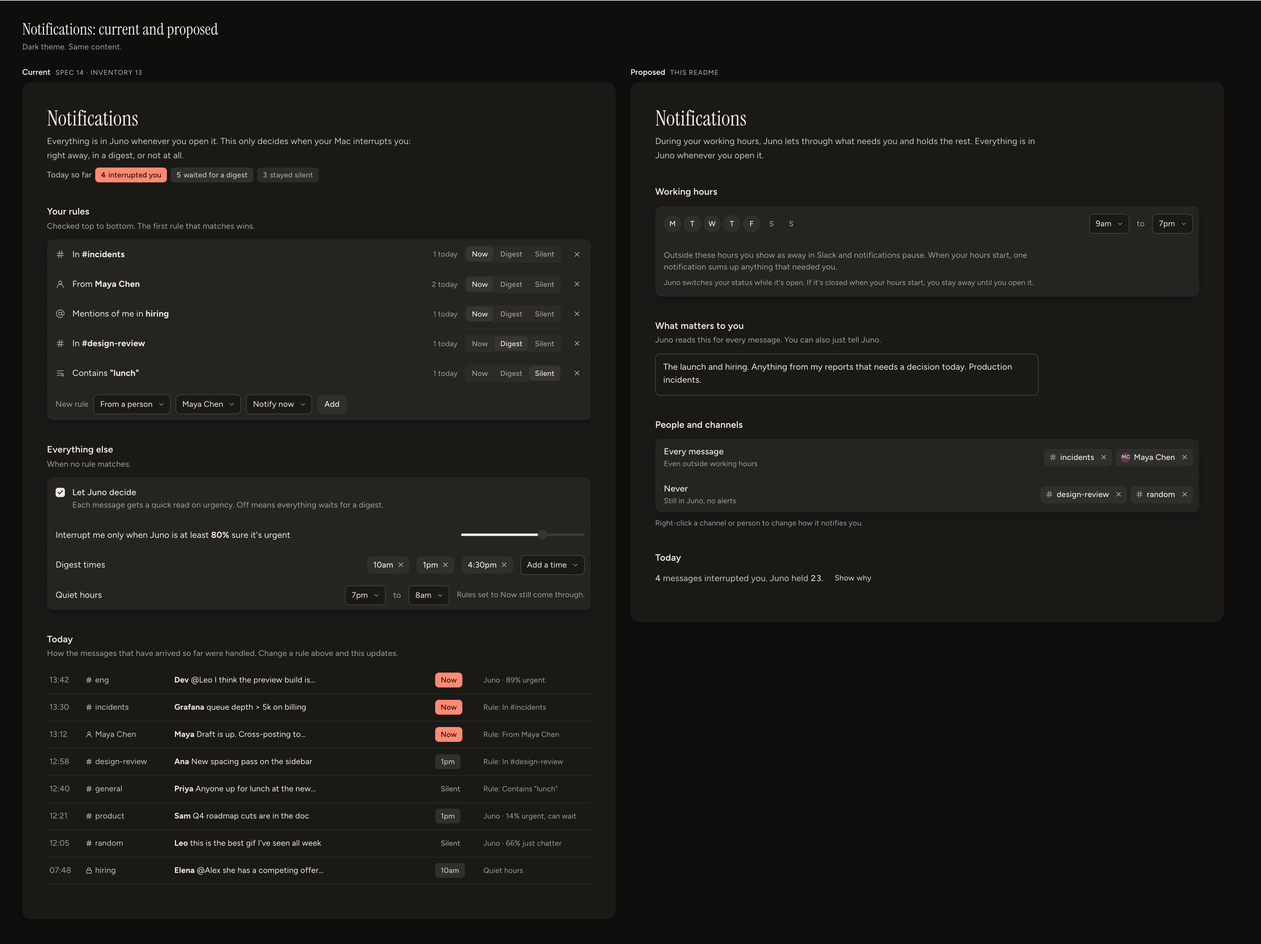
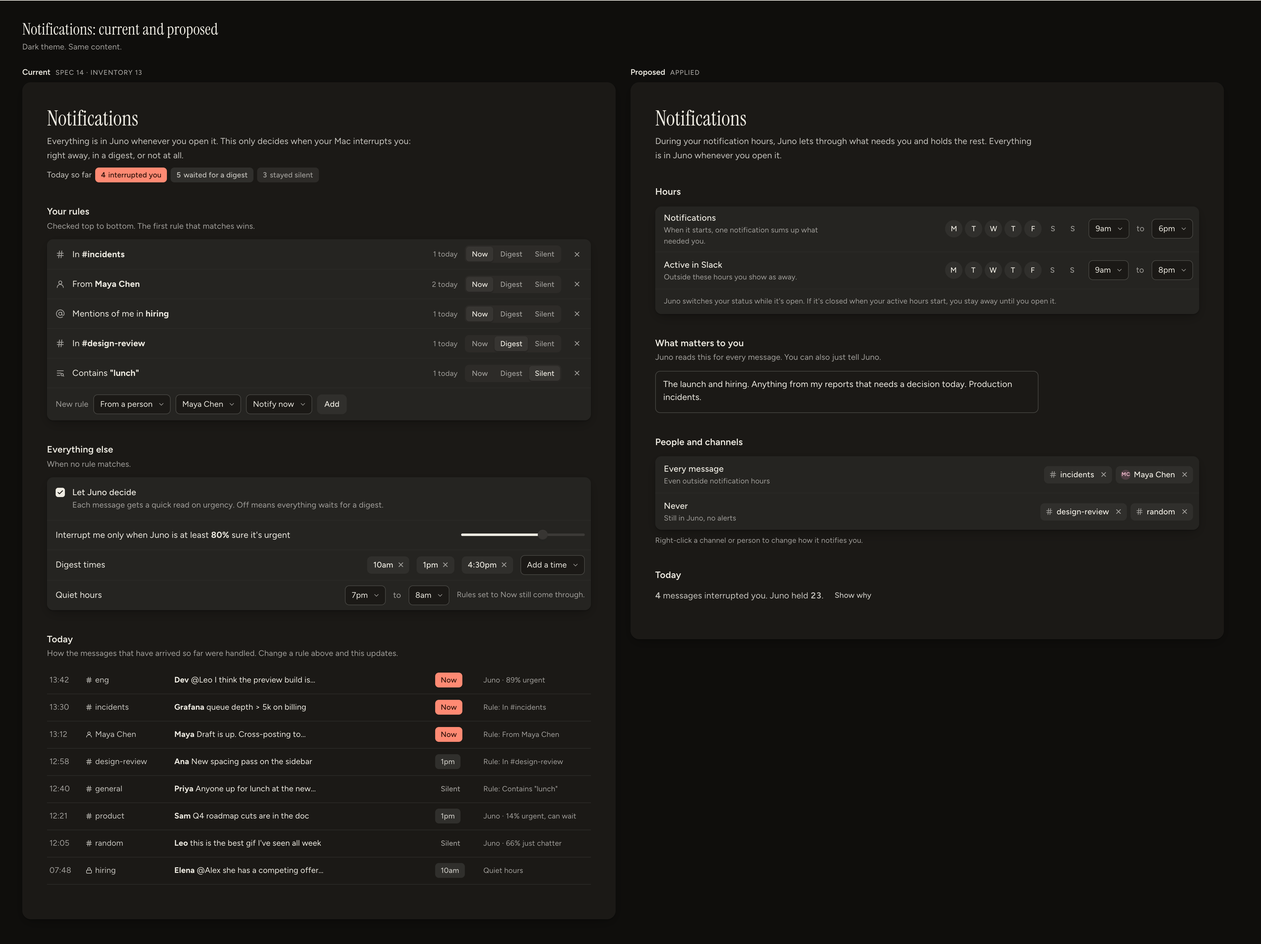
Split notification and active hours in the notifications design

diff --git a/docs/design/notifications/mock.html b/docs/design/notifications/mock.html
@@ -110,7 +110,7 @@ h1 { font: 400 26px/1.15 var(--font-serif); margin: 0 0 4px; }
 .av { width: 16px; height: 16px; border-radius: 50%; font-size: 8.5px; font-weight: 700; display: grid; place-items: center; background: color-mix(in oklch, #E89EB8 24%, var(--surface-default)); color: color-mix(in oklch, #E89EB8 62%, var(--foreground-default)); }
 .av.b { background: color-mix(in oklch, #008AB3 24%, var(--surface-default)); color: color-mix(in oklch, #008AB3 62%, var(--foreground-default)); }
 .tags { display: flex; flex-wrap: wrap; gap: 6px; flex: 1; justify-content: flex-end; }
-.lbl { width: 200px; flex: none; }
+.lbl { width: 260px; flex: none; }
 .lbl .t { font-size: 14px; font-weight: 500; }
 .lbl .s { font-size: 12px; color: var(--foreground-muted); }
 .hint { font-size: 12px; color: var(--foreground-muted); margin-top: 8px; }
@@ -252,18 +252,25 @@ h1 { font: 400 26px/1.15 var(--font-serif); margin: 0 0 4px; }
   <div class="pane"><div class="page">
     <div>
       <h2>Notifications</h2>
-      <p class="sub">During your working hours, Juno lets through what needs you and holds the rest. Everything is in Juno whenever you open it.</p>
+      <p class="sub">During your notification hours, Juno lets through what needs you and holds the rest. Everything is in Juno whenever you open it.</p>
     </div>
 
     <div>
-      <div class="sec-h">Working hours</div>
+      <div class="sec-h">Hours</div>
       <div class="group">
-        <div class="r" style="min-height:56px">
-          <span class="days"><span class="on">M</span><span class="on">T</span><span class="on">W</span><span class="on">T</span><span class="on">F</span><span>S</span><span>S</span></span>
+        <div class="r" style="min-height:60px">
+          <div class="lbl"><div class="t">Notifications</div><div class="s">When it starts, one notification sums up what needed you.</div></div>
           <span class="grow"></span>
-          <span class="select">9am<svg><use href="#i-down"/></svg></span><span class="muted" style="font-size:13px">to</span><span class="select">7pm<svg><use href="#i-down"/></svg></span>
+          <span class="days"><span class="on">M</span><span class="on">T</span><span class="on">W</span><span class="on">T</span><span class="on">F</span><span>S</span><span>S</span></span>
+          <span class="select">9am<svg><use href="#i-down"/></svg></span><span class="muted" style="font-size:13px">to</span><span class="select">6pm<svg><use href="#i-down"/></svg></span>
         </div>
-        <div class="note" style="border-top:1px solid var(--border-subtle)">Outside these hours you show as away in Slack and notifications pause. When your hours start, one notification sums up anything that needed you.<div style="font-size:12px;margin-top:6px">Juno switches your status while it's open. If it's closed when your hours start, you stay away until you open it.</div></div>
+        <div class="r" style="min-height:60px">
+          <div class="lbl"><div class="t">Active in Slack</div><div class="s">Outside these hours you show as away.</div></div>
+          <span class="grow"></span>
+          <span class="days"><span class="on">M</span><span class="on">T</span><span class="on">W</span><span class="on">T</span><span class="on">F</span><span>S</span><span>S</span></span>
+          <span class="select">9am<svg><use href="#i-down"/></svg></span><span class="muted" style="font-size:13px">to</span><span class="select">8pm<svg><use href="#i-down"/></svg></span>
+        </div>
+        <div class="note" style="max-width:none;border-top:1px solid var(--border-subtle);font-size:12px;padding:10px 14px 12px">Juno switches your status while it's open. If it's closed when your active hours start, you stay away until you open it.</div>
       </div>
     </div>
 
@@ -277,7 +284,7 @@ h1 { font: 400 26px/1.15 var(--font-serif); margin: 0 0 4px; }
       <div class="sec-h">People and channels</div>
       <div class="group">
         <div class="r" style="padding:10px 10px 10px 14px">
-          <div class="lbl"><div class="t">Every message</div><div class="s">Even outside working hours</div></div>
+          <div class="lbl"><div class="t">Every message</div><div class="s">Even outside notification hours</div></div>
           <div class="tags">
             <span class="tag"><svg class="k"><use href="#i-hash"/></svg>incidents<span class="x"><svg><use href="#i-x"/></svg></span></span>
             <span class="tag"><span class="av">MC</span>Maya Chen<span class="x"><svg><use href="#i-x"/></svg></span></span>
@@ -344,7 +351,7 @@ h1 { font: 400 26px/1.15 var(--font-serif); margin: 0 0 4px; }
           <div class="mi" style="height:32px"><svg><use href="#i-out"/></svg>Sign out</div>
         </div>
       </div>
-      <p class="cap">Away and active are one item. A change by hand lasts until the next switch in your working hours.</p>
+      <p class="cap">Away and active are one item. A change by hand lasts until the next switch in your active hours.</p>
     </div>
 
     <div style="width:500px">
@@ -382,7 +389,7 @@ h1 { font: 400 26px/1.15 var(--font-serif); margin: 0 0 4px; }
           <div class="bub j">Done. #design-review won't notify you, and Sam Okafor gets through any time.</div>
           <div class="cline">Notifications changed · <span class="act">Undo</span></div>
           <div class="bub o last" style="margin-top:14px">I'm off Friday.</div>
-          <div class="bub j">Friday is out of your working hours. You'll show as away all day.</div>
+          <div class="bub j">Friday is off. No notifications, and you'll show as away all day.</div>
           <div class="cline">Notifications changed · <span class="act">Undo</span></div>
         </div>
         <div class="colhead" style="margin-top:30px"><b>Today</b>after Show why</div>
@@ -398,10 +405,10 @@ h1 { font: 400 26px/1.15 var(--font-serif); margin: 0 0 4px; }
 
 <section class="sheet theme-light" data-key="compare-light">
   <h1>Notifications: current and proposed</h1>
-  <p class="lede">Left is the page in SPEC 14 and inventory 13. Right is the proposal: one schedule that sets both presence and notifications, a few words for Juno, two short lists, and a one-line Today.</p>
+  <p class="lede">Left is the page in SPEC 14 and inventory 13. Right is the applied design: notification hours and active hours as two rows, a few words for Juno, two short lists, and a one-line Today. The example has notifications until 6pm and active until 8pm; by default both are the same.</p>
   <div class="row">
     <div style="width:960px"><div class="colhead"><b>Current</b>SPEC 14 · inventory 13</div><div data-t="current"></div></div>
-    <div style="width:960px"><div class="colhead"><b>Proposed</b>this README</div><div data-t="proposed"></div></div>
+    <div style="width:960px"><div class="colhead"><b>Proposed</b>applied</div><div data-t="proposed"></div></div>
   </div>
 </section>
 
@@ -410,7 +417,7 @@ h1 { font: 400 26px/1.15 var(--font-serif); margin: 0 0 4px; }
   <p class="lede">Dark theme. Same content.</p>
   <div class="row">
     <div style="width:960px"><div class="colhead"><b>Current</b>SPEC 14 · inventory 13</div><div data-t="current"></div></div>
-    <div style="width:960px"><div class="colhead"><b>Proposed</b>this README</div><div data-t="proposed"></div></div>
+    <div style="width:960px"><div class="colhead"><b>Proposed</b>applied</div><div data-t="proposed"></div></div>
   </div>
 </section>
 

diff --git a/docs/design/notifications/README.md b/docs/design/notifications/README.md
@@ -1,6 +1,6 @@
 # Notifications: a simplification pass
 
-A proposal, not yet applied. It replaces SPEC 14's notification page and adds a presence schedule. `mock.html` shows the current page next to the proposal, and what moves off the page. `node ../../../scripts/heavy.mjs node render.mjs` writes the PNGs.
+Approved by the owner on 10-14 and applied to SPEC 14, inventory 13 and `@juno/domain`. It replaces the old notification page and adds a presence schedule. `mock.html` shows the current page next to the proposal, and what moves off the page. `node ../../../scripts/heavy.mjs node render.mjs` writes the PNGs.
 
 | File | What |
 | --- | --- |
@@ -18,7 +18,7 @@ The current page asks a busy manager to run a small rules engine:
 - **A rule builder with three selects.** Type, value, action. It is a form for writing a rule, when the owner already knows the channel they want to change and is usually looking at it.
 - **Hit counts on every rule.** "1 today" five times is noise. It answers a question nobody asked.
 - **A threshold slider.** "80% sure it's urgent" is the wrong mental model. Nobody knows what 75% feels like, and the score is not calibrated the same way from month to month as the model changes.
-- **Three timing concepts.** Digest times, quiet hours and (now) a presence schedule are three ways of saying "when I am working".
+- **Two timing concepts that overlap.** Digest times and quiet hours both say when you may be interrupted, in different words.
 - **A five-column Today log.** Time, place, message, outcome chip, reason, for every message of the day. It is the busiest thing on the page, and the owner needs it only when one specific message surprised them.
 - **Keyword rules.** "Contains lunch" is the kind of judgement a model does better than a substring.
 
@@ -26,40 +26,42 @@ Every row on the page is a control, and the page needs a scroll before the log s
 
 ## The simplified model
 
-One schedule, one paragraph of plain words, two short lists, and Juno's judgement for everything else.
+Two sets of hours, one paragraph of plain words, two short lists, and Juno's judgement for everything else.
 
-1. **Working hours.** Days and a from and to time (default weekdays, 9am to 7pm). Outside them:
-   - Slack shows you as away.
-   - Your Mac does not notify, and (once verified, see open items) neither does Slack on your phone.
-   - When your hours start, one notification sums up anything that would have notified you overnight, if there was any.
-2. **Inside working hours, Juno decides** each message: notify now, or hold. Held means no notification; the message is in the sidebar as always. There is no threshold. The decision model's cutoff is calibrated by us and checked by the gate eval, not set by the owner.
+1. **Hours.** Two rows, each with days and a from and to time. Both default to weekdays, 9am to 7pm. They can differ: active until 8pm, notifications until 6pm.
+   - **Notifications.** Outside them your Mac does not notify, and once Slack's own schedule is verified (open items), Juno writes the same hours to Slack so your phone goes quiet too, with no extra switch. When they start, one notification sums up anything that would have notified you, if there was any.
+   - **Active in Slack.** Inside them Slack shows you as active; outside, away.
+2. **Inside notification hours, Juno decides** each message: notify now, or hold. Held means no notification; the message is in the sidebar as always. There is no threshold. The decision model's cutoff is calibrated by us and checked by the gate eval, not set by the owner.
 3. **What matters to you.** A short text the owner writes ("The launch and hiring. Anything from my reports that needs a decision today."). Juno's gate reads it with every message. It replaces keyword rules and most person and channel rules. The owner can edit it on the page or tell Juno in chat.
 4. **People and channels** have three levels, set from their context menu:
-   - **Every message** notifies, even outside working hours. This is the safety valve (#incidents, your manager).
+   - **Every message** notifies, even outside notification hours. This is the safety valve (#incidents, your manager).
    - **When it matters** is the default. Juno decides. It is not listed on the page.
    - **Never** notifies, but the messages stay in Juno. Ignore (in Preferences) still exists for hiding a channel entirely.
    - There is no order. If a person and a channel disagree, **Every message wins**, so nothing important is silently lost.
-5. **Away by hand.** The avatar menu has "Set yourself away" or "Set yourself active". Away by hand means the same as outside working hours (away and paused). It lasts until the next switch in the schedule.
+5. **Away by hand.** The avatar menu has "Set yourself away" or "Set yourself active". It changes presence only, and lasts until the next switch in the active hours.
 6. **Why, on demand.** A message's context menu has "Why did this notify?" or "Why no notification?". A small popover gives the reason in words. If the reason is a setting, it offers Change; if it was Juno's call, Tell Juno opens the chat quoting the message. The page keeps only a one-line Today ("4 messages interrupted you. Juno held 23.") with Show why, which lists the ones that interrupted you and their reasons.
-7. **AI assist off.** Juno's judgement is off, so inside working hours you are notified for DMs and mentions, as in Slack. Every message and Never still apply. The "What matters" field shows "AI assist is off. You're notified about DMs and mentions." in place of its text.
+7. **AI assist off.** Juno's judgement is off, so inside notification hours you are notified for DMs and mentions, as in Slack. Every message and Never still apply. The "What matters" field shows "AI assist is off. You're notified about DMs and mentions." in place of its text.
 
-What Juno decides: whether a message needs you now, given what matters to you, who wrote it, where, and whether it asks you something. What the owner decides: working hours, the words, and Every message or Never for a few places and people.
+What Juno decides: whether a message needs you now, given what matters to you, who wrote it, where, and whether it asks you something. What the owner decides: the two sets of hours, the words, and Every message or Never for a few places and people.
 
 ### Presence and the honest limits
 
 - Slack has `presence.set` for the self user (`docs/research/slack-data-access.md`, Presence). `away` is a manual away that holds on every client until set back; `auto` lets Slack decide from activity. There is no `getPresence`; Juno learns its own state from `manual_presence_change` events on the socket.
-- At the start of working hours Juno sets `auto`; at the end, `away`. "Active" always means `auto`, so an idle owner still shows as away.
-- Juno can switch presence only while it runs. On launch and on wake from sleep, it applies what the schedule says for now. If the Mac sleeps through the end of the day, Slack's own idle away covers it. If Juno is closed when the hours start, the owner stays away until it opens. The page says this in one line.
+- At the start of the active hours Juno sets `auto`; at the end, `away`. "Active" always means `auto`, so an idle owner still shows as away.
+- Juno can switch presence only while it runs. On launch and on wake from sleep, it applies what the schedule says for now. If the Mac sleeps through the end of the day, Slack's own idle away covers it. If Juno is closed when the active hours start, the owner stays away until it opens. The page says this in one line.
 - A manual change in the official Slack client is respected until the next switch in the schedule, the same as a manual change in Juno.
 
 ## The page
 
 `compare-*.png`, right column. Page max-width 880, padding `40 40 56`, gap 36, as today.
 
-1. Title "Notifications". Sub: "During your working hours, Juno lets through what needs you and holds the rest. Everything is in Juno whenever you open it."
-2. **Working hours.** One group card. Row: seven day toggles (28px round, on is `--secondary-default`), then the from and to selects. Below a hairline, a muted note: "Outside these hours you show as away in Slack and notifications pause. When your hours start, one notification sums up anything that needed you." and, at 12px: "Juno switches your status while it's open. If it's closed when your hours start, you stay away until you open it." Once Slack's own schedule is verified (open items), the first sentence adds ", here and on your phone".
+1. Title "Notifications". Sub: "During your notification hours, Juno lets through what needs you and holds the rest. Everything is in Juno whenever you open it."
+2. **Hours.** One group card, two rows. Each row: a label (14/500) with a 12px muted sub, seven day toggles (28px round, on is `--secondary-default`), then the from and to selects.
+   - "Notifications", sub "When it starts, one notification sums up what needed you."
+   - "Active in Slack", sub "Outside these hours you show as away."
+   Below a hairline, one 12px muted line: "Juno switches your status while it's open. If it's closed when your active hours start, you stay away until you open it." Once Slack's own schedule is verified and written, the Notifications sub adds "Slack on your phone pauses too."
 3. **What matters to you.** Sub: "Juno reads this for every message. You can also just tell Juno." A plain text field, max-width 620, at least three lines, saved on blur.
-4. **People and channels.** One group card, two rows: "Every message" (sub "Even outside working hours") and "Never" (sub "Still in Juno, no alerts"). Each row holds removable tags (channel icon or avatar, name, `x`). Hint below: "Right-click a channel or person to change how it notifies you." With both lists empty, the card is one muted row: "Every channel and person is set to When it matters."
+4. **People and channels.** One group card, two rows: "Every message" (sub "Even outside notification hours") and "Never" (sub "Still in Juno, no alerts"). Each row holds removable tags (channel icon or avatar, name, `x`). Hint below: "Right-click a channel or person to change how it notifies you." With both lists empty, the card is one muted row: "Every channel and person is set to When it matters."
 5. **Today.** One line: "4 messages interrupted you. Juno held 23." and a ghost button Show why. Show why expands the interrupted messages only (time, place, sender and text, and the reason under them in 12px muted). Held messages are not listed; the per-message menu answers for them.
 
 No segmented controls, no slider, no builder, no counts per rule, no digest chips.
@@ -90,56 +92,29 @@ Changing notification settings from the chat is a Local action (SPEC 13.9): no c
 | "Let Juno decide" checkbox | Juno deciding is the product. AI assist off has a fixed fallback (DMs and mentions) |
 | Threshold slider | A percentage is the wrong model and the score shifts as models change; the cutoff is ours to calibrate |
 | Digest times | Folded into one start-of-hours summary; more digests are a Juno schedule |
-| Quiet hours | Folded into working hours, inverted |
+| Quiet hours | Folded into notification hours, inverted |
 | Today so far chips | Replaced by one sentence |
 | Five-column Today log | Replaced by Show why (interrupted messages only) and the per-message why |
-| "Next digest 3pm" hint in the avatar menu | No digest times; the hint becomes "Paused until 9am" outside working hours, and nothing inside |
+| "Next digest 3pm" hint in the avatar menu | No digest times; the hint becomes "Paused until 9am" outside notification hours, and nothing inside |
 
-## Changes this implies, to apply once the owner picks
+## Where it was applied
 
-### SPEC.md
+- **SPEC.md:** section 3 (presence and notification settings in the Slack table), section 5 (avatar menu), 13.6 (schedule delivery), 13.9 (notification settings change from the owner's own words, with Undo), section 14 (rewritten), section 15 (the gate), section 19 (Slack's notification schedule).
+- **inventory.md:** the avatar menu, section 6 (the message menu's why), section 13 (rewritten), section 14 (Preferences link), 15.1 and 15.2 (Notify me).
+- **`@juno/domain` `notifications.ts`:** `decideNotification` (ignored → Every message → Never → outside notification hours → AI assist off → Juno), `hoursStartSummary`, `inHours`, `nextSwitch`, `untilLabel`, `scheduledPresence` and `slackPresence`. Table tests in `test/notifications.test.ts`.
+- **docs/architecture.md:** the M10 line.
+- **docs/backlog.md:** the engine presence job, the gate change, the hours-start summary, Juno's settings tool, and the read-only check of Slack's notification schedule.
 
-- **Section 2 or 3:** the Slack table's "Not in Slack" row: "notification rules" becomes "notification settings". Add a row: "Presence (active, away) | Set by your working hours and the avatar menu, written to Slack with `presence.set`."
-- **Section 5, item 1:** the avatar menu holds "away or active, status, Notifications, Preferences, ...".
-- **Section 13.6:** "Delivery" unchanged in spirit; schedules deliver as "Notify" or "Don't notify" (no Digest).
-- **Section 13.9 table, Local row:** add "notification settings and working hours from your own words". "Settings are yours" bullet: say it covers Juno's own settings (models, spend cap, rules, tiers, connections), not notification settings.
-- **Section 14:** rewrite to the model above: working hours (presence and notifications together), Juno decides inside them, What matters to you, Every message and Never on people and channels (Every message wins), the start-of-hours summary, the why on a message, AI assist off falls back to DMs and mentions. The Juno messages table: "A scheduled message | As the schedule says: notify or not, at any hour, since you set the time"; the job rows stay Now inside working hours and go to the start-of-hours summary outside them. Replace figure 12 once built.
-- **Section 15 table:** Notification gate: "Each incoming message, after Every message and Never, inside working hours". The gate reads the owner's What matters text.
-- **Section 18:** none.
-- **Section 19:** add the open item on Slack's notification schedule (below).
+Not changed: no Quint spec, since presence and notification settings are owner-set values, not a sync protocol.
 
-### inventory.md
+## Open items
 
-- **Section 2, avatar menu:** add "Set yourself away" / "Set yourself active" (`moon` / `sun`) first; header sub line "Active" or "Away until 9am" with a presence dot on the avatar; Notifications hint becomes "Paused until 9am" outside working hours, empty inside.
-- **Section 13:** replace with the page described above (title, sub, Working hours card, What matters field, People and channels card, Today line and Show why list). Drop the rule row, segmented control, new rule row, checkbox row, threshold row, digest row, quiet hours row and log grid. Replace the decision order with: ignored → Every message (person or channel) → Never → outside working hours or away by hand (hold for the start-of-hours summary) → AI assist off (notify for DMs and mentions) → Juno.
-- **Section 14:** the Notifications group's sub becomes "Working hours, and what Juno lets through."
-- **Section 15.1 and 15.2:** add "Notify me" (`bell`) with a submenu Every message, When it matters, Never (checkmark on the current one), above Ignore. Add the same submenu to a person's menu.
-- **Message context menu (section 6):** add "Why did this notify?" / "Why no notification?" (`circle-help`) and the popover: 300px, radius 13, `--pop-shadow`, title 13/600, reason 13 subtle, one button (Change or Tell Juno) 28px secondary.
+- **Slack's own notification schedule.** The research shows a `dnd` object in `client.userBoot`, `dnd_updated` events, and `users.prefs.set`, but no `dnd.*` call site and no schedule pref keys. Slack's public API has `dnd.setSnooze` and `dnd.endSnooze`, and the schedule appears to be prefs (`dnd_enabled`, `dnd_start_hour`, `dnd_end_hour`, and possibly per-day keys). Unverified. Find the pref or endpoint read-only (`users.prefs.get`, the boot `dnd` object, the official client's bundle), never by writing. Until then the page does not say "on your phone".
+- **Every message on the phone.** Slack's schedule may not let #incidents through at night the way Juno's Every message does (Slack has VIPs for people, not channels). If so, the page says Every message reaches only the Mac outside notification hours.
 
-### packages/domain/src/notifications.ts
+## Owner decisions (10-14)
 
-- `NotificationOutcome` becomes `'now' | 'hold'`; held messages that Juno would have sent now while outside hours are flagged for the start-of-hours summary (`'later'` may be the cleaner third value).
-- `NotificationRule` becomes `NotificationLevel = 'every' | 'never'` keyed by `{ kind: 'channel' | 'person', id }`. Delete `RuleKind` 'mention' and 'keyword', `firstMatchingRule` and rule ids. Every wins over Never.
-- `NotificationSettings` becomes `{ workingHours: { days: ReadonlySet<Weekday>, from: number, to: number }, mattersText: string, levels }`. Delete `aiGate`, `threshold`, `quietHours`, `digestTimes`, `CHATTER_CUTOFF`, `nextDigestSlot`, `nextDigestLabel`, `decisionChip`.
-- `UrgencyScore` becomes the gate's answer `{ notify: boolean, reason: string }` from a fixed set of reasons ("asks you to decide", "about something you said matters", ...), so the why popover never shows a percentage.
-- Add `presenceAt(minutes, weekday, workingHours, manual?)` returning `'active' | 'away'` and `nextSwitch(...)` for the "until 9am" hints. Pure, unit tested.
-- Reasons become the popover strings: "#design-review is set to Never", "Maya Chen is set to Every message", "Outside your working hours", "You set yourself away", "Juno: asks you to approve the release before 2pm".
-
-### Engine and elsewhere
-
-- **Presence job:** at each schedule switch, on launch and on wake, call `presence.set` with `auto` or `away` as `presenceAt` says; track the current state from `manual_presence_change`. The avatar menu's switch calls the same path.
-- **Gate:** pass the What matters text to the `classify` call. The gate eval (decision log 10-13 22:04) is re-run with it, and the p50 must stay near 516 ms.
-- **Start-of-hours summary:** one OS notification at the start of working hours when anything was held as later; clicking it opens For you or the first topic (to settle when building).
-- **Juno Agent:** a local tool to read and change notification settings and working hours, Local tier with Undo.
-- No Quint spec change: presence and notification settings are owner-set values, not a sync protocol.
-
-### Open items
-
-- **Slack's own notification schedule.** The research shows a `dnd` object in `client.userBoot`, `dnd_updated` events, and `users.prefs.set`, but no `dnd.*` call site and no schedule pref keys. Slack's public API has `dnd.setSnooze` and `dnd.endSnooze`, and the schedule appears to be prefs (`dnd_enabled`, `dnd_start_hour`, `dnd_end_hour`, and possibly per-day keys). Unverified. Before building, read `users.prefs.get` and the boot `dnd` object (read-only) and find the client's setter in the bundle. Only then can Juno write the schedule so the phone stays quiet too. Until it is verified the page must not say "on your phone".
-- **Every message on the phone.** Slack's schedule may not let #incidents through at night the way Juno's Every message does (Slack has VIPs for people, not channels). If so, the line on the page says Every message reaches only the Mac outside hours.
-
-## Questions for the owner
-
-1. **Digest times.** Cut them, keeping one start-of-hours summary and Juno schedules for anything more (recommended), or keep a row of digest times on the page?
-2. **Slack's own schedule.** Once verified, should working hours also set Slack's notification schedule so the phone stays quiet (recommended, with no extra switch), or should Juno touch only presence and leave Slack's notification settings alone?
-3. **Away and paused together.** Should one schedule set both presence and notifications (recommended), or should presence get its own separate hours?
+1. Apply the proposal.
+2. Digest times are cut: one summary when notification hours start; extra digests only as Juno schedules.
+3. Presence and notifications have separate hours, two rows in one section, the same hours by default.
+4. Once verified read-only, notification hours also set Slack's own notification schedule, with no extra switch.
